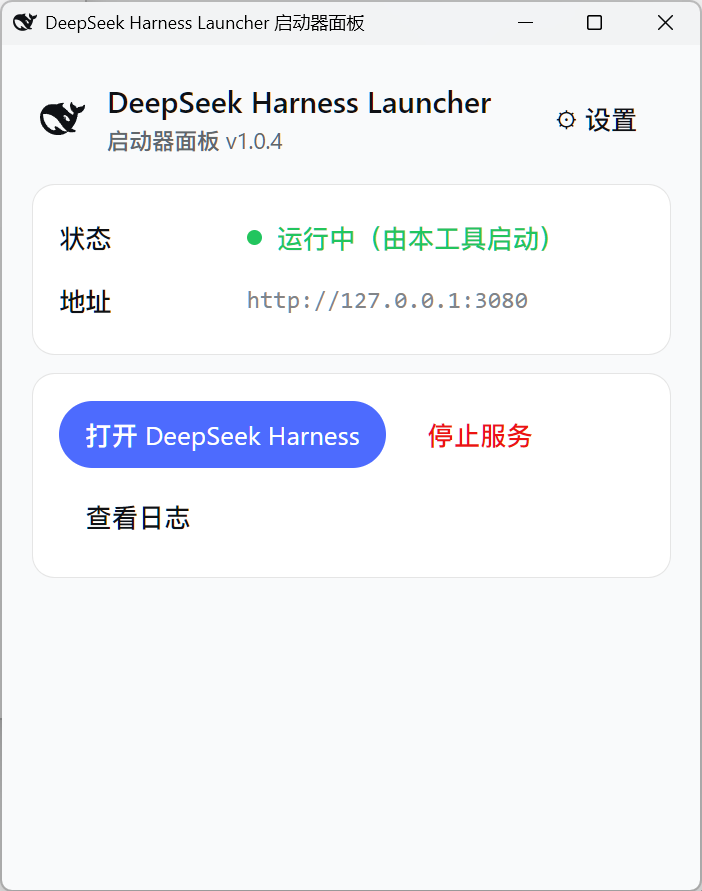
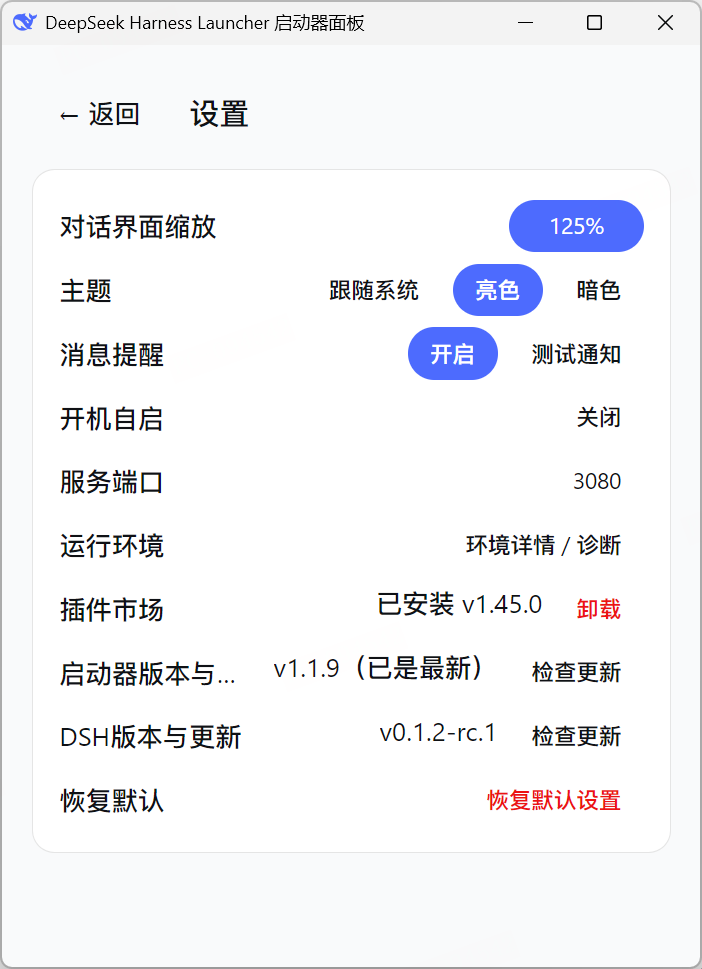
docs: 更新 README 软件界面截图
- 删除首页单独展示的第一张截图，保留两图并排布局
- ui-1.png 换为启动器面板主页（服务状态 / 余额 / 常用入口）
- ui-2.png 换为设置页（缩放 / 主题 / 端口 / 插件市场 / 版本更新）
- 删除已无引用的 ui-3.png，并补充图片 alt 文案

diff --git a/README.md b/README.md
@@ -9,12 +9,10 @@ DSHL 是 [DeepSeek Harness](https://www.npmjs.com/package/@deepseek-ai/dsh)（DS
 
 ## 软件界面
 
-![软件界面 1](docs/screenshots/ui-1.png)
-
 <table>
   <tr>
-    <td width="50%"><img src="docs/screenshots/ui-2.png" alt="软件界面 2" width="100%"></td>
-    <td width="50%"><img src="docs/screenshots/ui-3.png" alt="软件界面 3" width="100%"></td>
+    <td width="50%"><img src="docs/screenshots/ui-1.png" alt="启动器面板：服务状态、余额与常用入口" width="100%"></td>
+    <td width="50%"><img src="docs/screenshots/ui-2.png" alt="设置页：缩放、主题、端口、插件市场与版本更新" width="100%"></td>
   </tr>
 </table>
 
